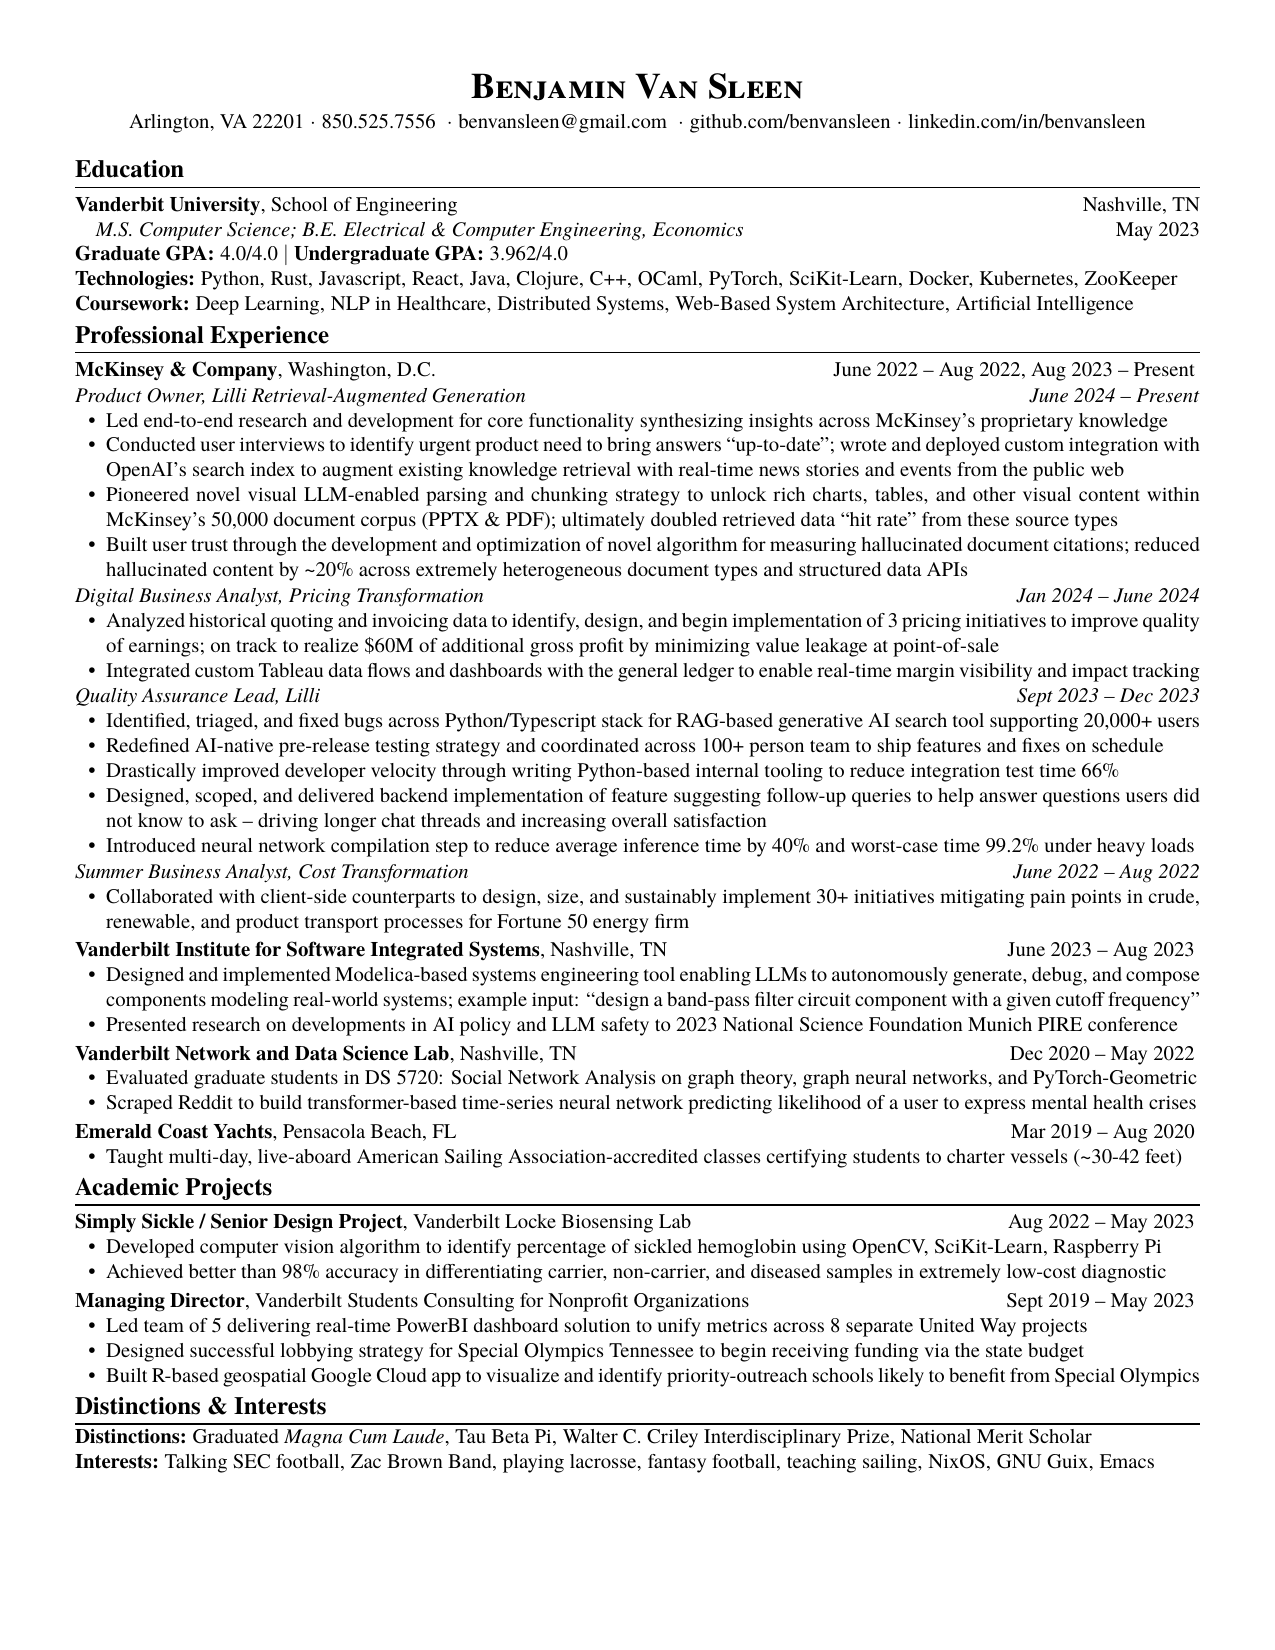
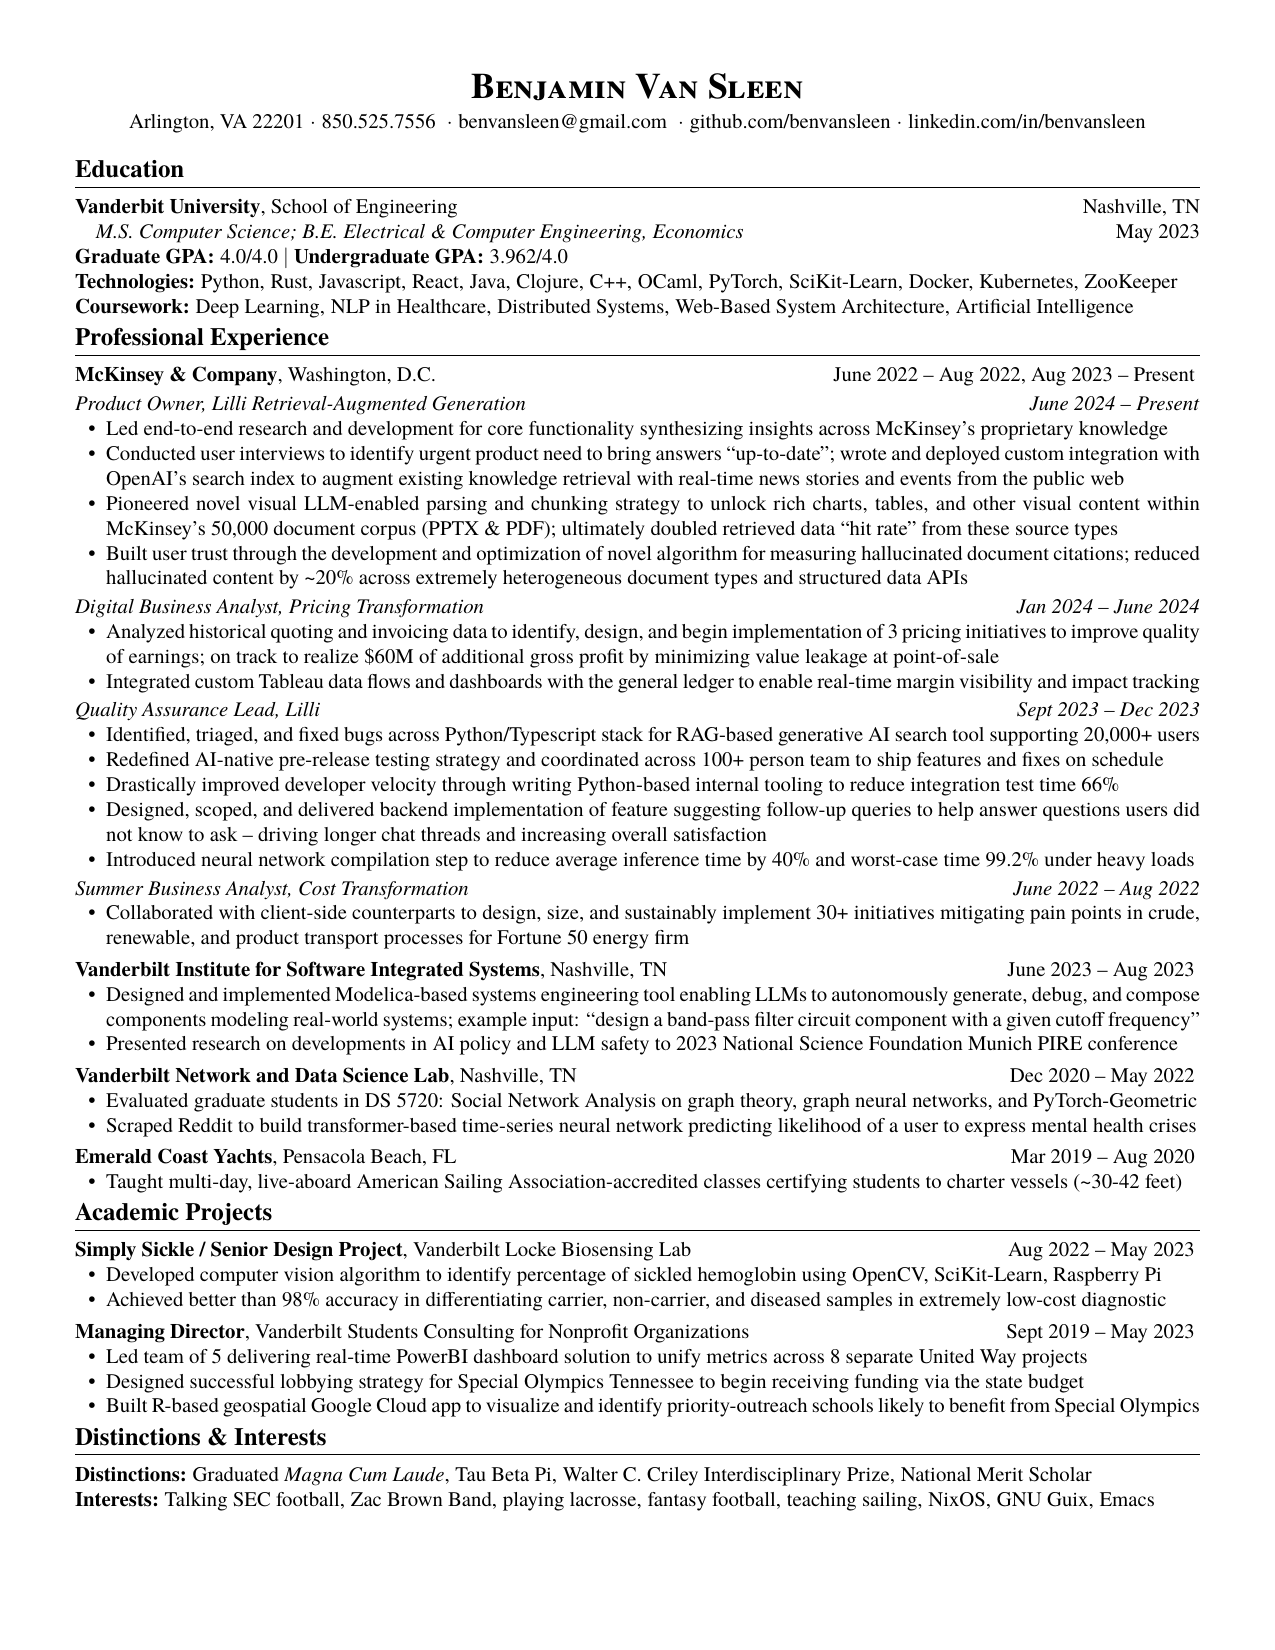
Spacing changes

Changed region(s): [[0.0612, 0.1236, 0.9482, 0.9273]]

diff --git a/main.tex b/main.tex
@@ -47,12 +47,8 @@
 \ExplSyntaxOff
 
 
-%% \setlist[itemize]{left=0pt,label=--,itemsep=0pt,topsep=0pt}
 \setlist[itemize]{
     leftmargin=1.5em,
-    topsep=0pt,
-    %% labelsep=0.5em,
-    itemsep=0ex,
     nosep,
     %% label=\raisebox{0.2ex}{\rule{0.30em}{0.30em}}
 }
@@ -61,7 +57,7 @@
 \titleformat{\section}{\large\bfseries}{}{0em}{}[\hrule height 0.7pt]
 
 \newcommand{\postlinebreakspacing} {
-  \vspace{0.4ex}
+  \vspace{0.7ex}
 }
 \newcommand{\roleheader}[3]{
   \postlinebreakspacing
@@ -80,7 +76,7 @@
   \end{itemize}
 }
 \newcommand{\subrole}[5]{
-  \vspace{0.1ex}
+  \vspace{0.4ex}
   \textit{#1, #2} \hfill \textit{#3 -- #4}
 
   \begin{itemize}
@@ -224,6 +220,7 @@
 
 
 \section*{Distinctions \& Interests}
+\postlinebreakspacing
 \lines
 {
 	\listline{Distinctions} {Graduated \textit{Magna Cum Laude}, Tau Beta Pi, Walter C. Criley Interdisciplinary Prize, National Merit Scholar},
